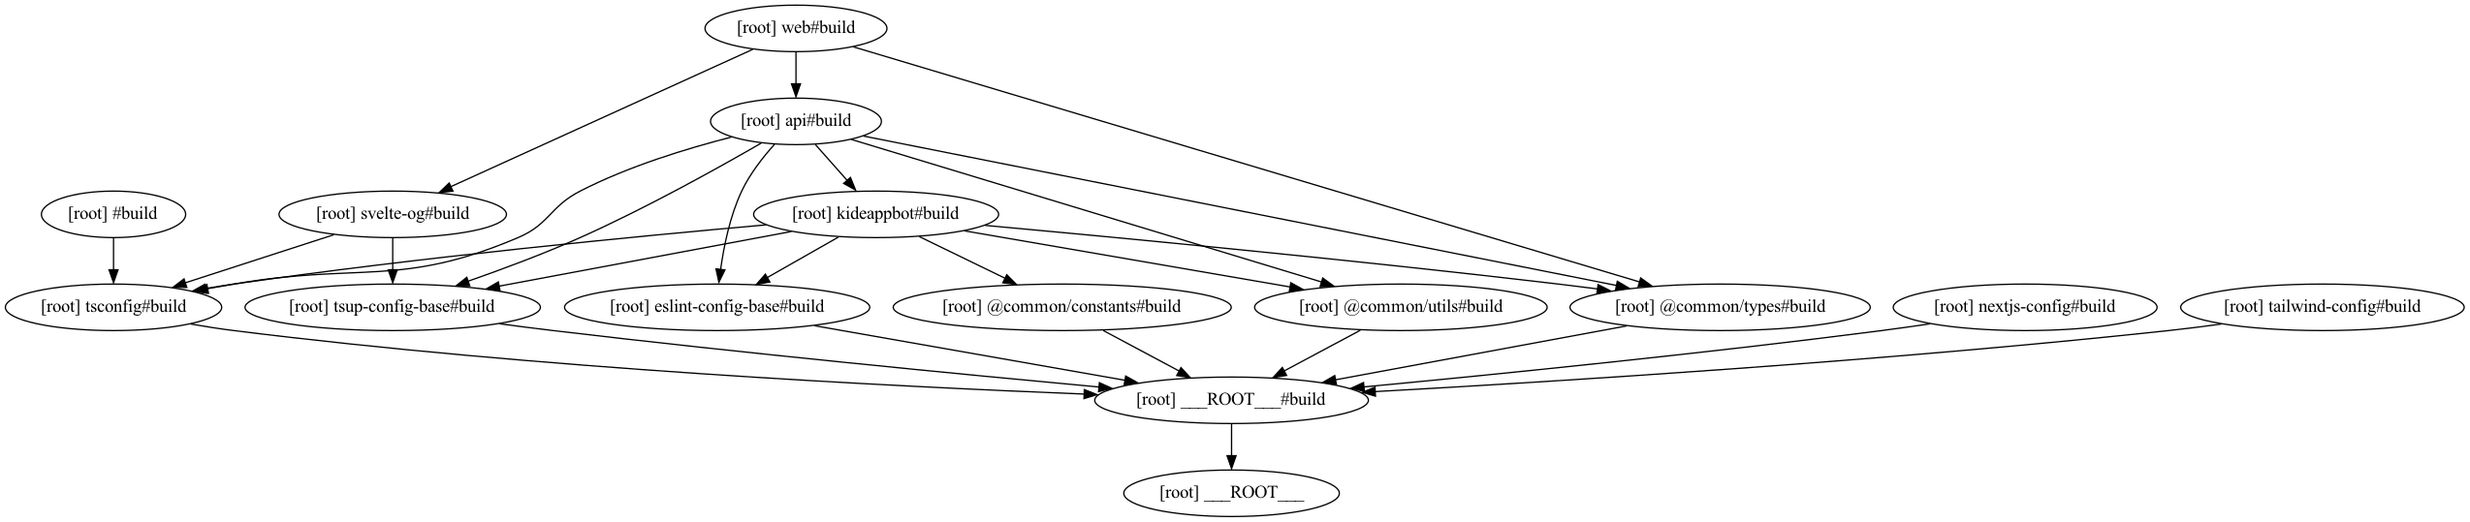
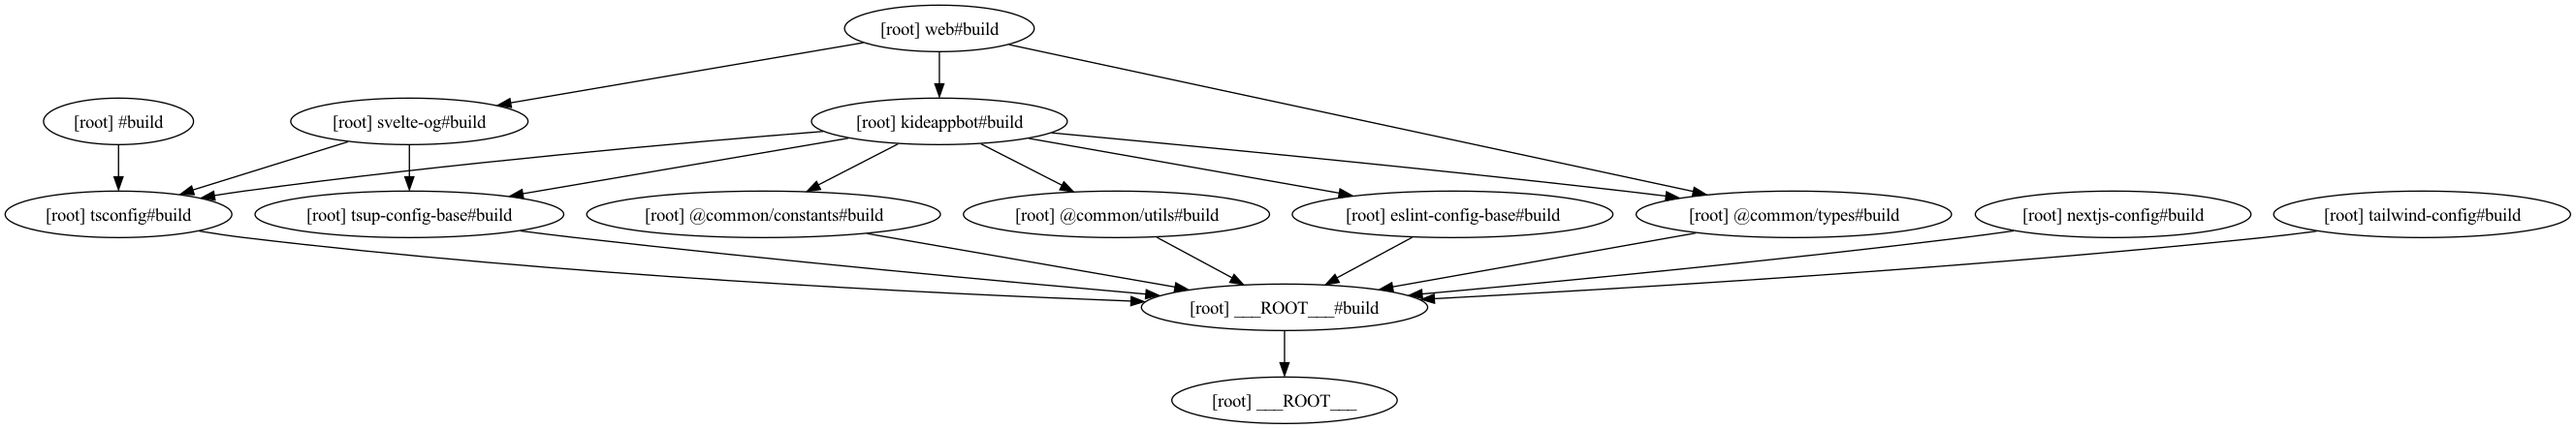
feat(web:app): :boom: Make bot run fully locally
Remove use of separate api server. Everything is now transparent and local

diff --git a/apps/web/src/routes/+page.svelte b/apps/web/src/routes/+page.svelte
@@ -1,17 +1,24 @@
-<script>
+<script lang="ts">
+	import type { LogMessage } from '@common/types';
+	import KideAppBot from 'kideappbot';
 	import { Log } from '$lib/components/Log';
-	import { isRunning, startBot, logs } from '$lib/utils/trpc';
-	import { tokenIsSet } from '$lib/stores/token';
+	import { token, tokenIsSet } from '$lib/stores/token';
 	import LogItem from '$lib/components/Log/LogItem.svelte';
 	import Icon from '@iconify/svelte';
 	import { browser } from '$app/environment';
 
+	let isRunning = false;
+	let logs: LogMessage[] = [];
+
 	let url = '';
-	$: disabled = !$tokenIsSet || $isRunning;
+	$: disabled = !$tokenIsSet || isRunning;
 
 	const start = () => {
-		logs.set([]);
-		startBot(url);
+		logs = [];
+		const bot = new KideAppBot($token);
+		bot.setOnIsActiveChanged(isActive => (isRunning = isActive));
+		bot.setOnLog(log => (logs = [...logs, log]));
+		bot.runBot(url);
 	};
 </script>
 
@@ -50,7 +57,7 @@
 	<!-- Logs -->
 
 	<Log>
-		{#each $logs as log}
+		{#each logs as log}
 			<LogItem {...log} />
 		{/each}
 	</Log>

diff --git a/packages/bot-logic/tsup.config.ts b/packages/bot-logic/tsup.config.ts
@@ -1,4 +1,7 @@
 import { defineConfig } from 'tsup';
 import { config } from 'tsup-config-base';
 
-export default defineConfig(config);
+export default defineConfig({
+	...config,
+	format: 'esm'
+});

diff --git a/README.md b/README.md
@@ -4,6 +4,8 @@ Ticket reservation bot for **[Kide.app](https://kide.app/)**
 
 Bot is available here: **[KideAppBot.com](https://kideappbot.com)**
 
+Runs locally in your browser
+
 ![app-presentation](/.github/images/app-presentation.png)
 
 - Once setup, only event url is needed
@@ -32,27 +34,23 @@ This app works with kide.app and therefore requires your kide.app bearer token t
 
 ## Usage
 
-- **NOTE: This version sends your bearer token to my server that then uses it to reserve tickets from KideApp.** I will never store your bearer token nor use it for anything else than reserving the tickets. By using the bot you agree to this.
-
 1. Head to **[KideAppBot.com](https://kideappbot.com)**
 2. find your bearer token
    1. At <https://kide.app/> (when logged in) open web inspector
    2. Application tab > Local Storage > <https://kide.app>
    3. Copy the value of row that has key _"authorization.token"_, excluding apostrophes
 3. Set your kide.app bearer token in app settings.
-   - The value will be saved to local storage which means that you won't have to set it again as long as the url stays the same and you are using that same device.
+   - The value will be saved to local storage which means that you won't have to set it again as long as you're using the same device.
 4. Copy event url from <https://kide.app/>
    - Each event should start with <https://kide.app/events/>
 5. Press _"Start"_ button and watch the bot go
 
 ## Technical details
 
-This is the second major version of the bot. It is a monorepo that uses PNPM workspaces and turborepo to manage the project. It has a frontend and a backend. They communicate through TRPC Subscriptions using websockets. The project is made modular using PNPM workspaces which means that different parts of the application are split to their own reusable packages.
+This is the third major version of the bot. It is a monorepo that uses PNPM workspaces and turborepo to manage the project. The project is made modular using PNPM workspaces which means that different parts of the application are split to their own reusable packages.
 
 - Monorepo using [PNPM workspaces](https://pnpm.io/workspaces) + [turborepo](https://turbo.build/repo/docs/reference/command-line-reference)
 - Frontend: [SvelteKit](https://kit.svelte.dev/) + [Skeleton](https://www.skeleton.dev/)
-- Backend: [TRPC](https://trpc.io/) + [Typescript](https://www.typescriptlang.org/)
-- Realtime communication between Frontend and Backend using [TRPC WebSocket subscriptions](https://trpc.io/docs/subscriptions)
 
 ### Running locally
 
